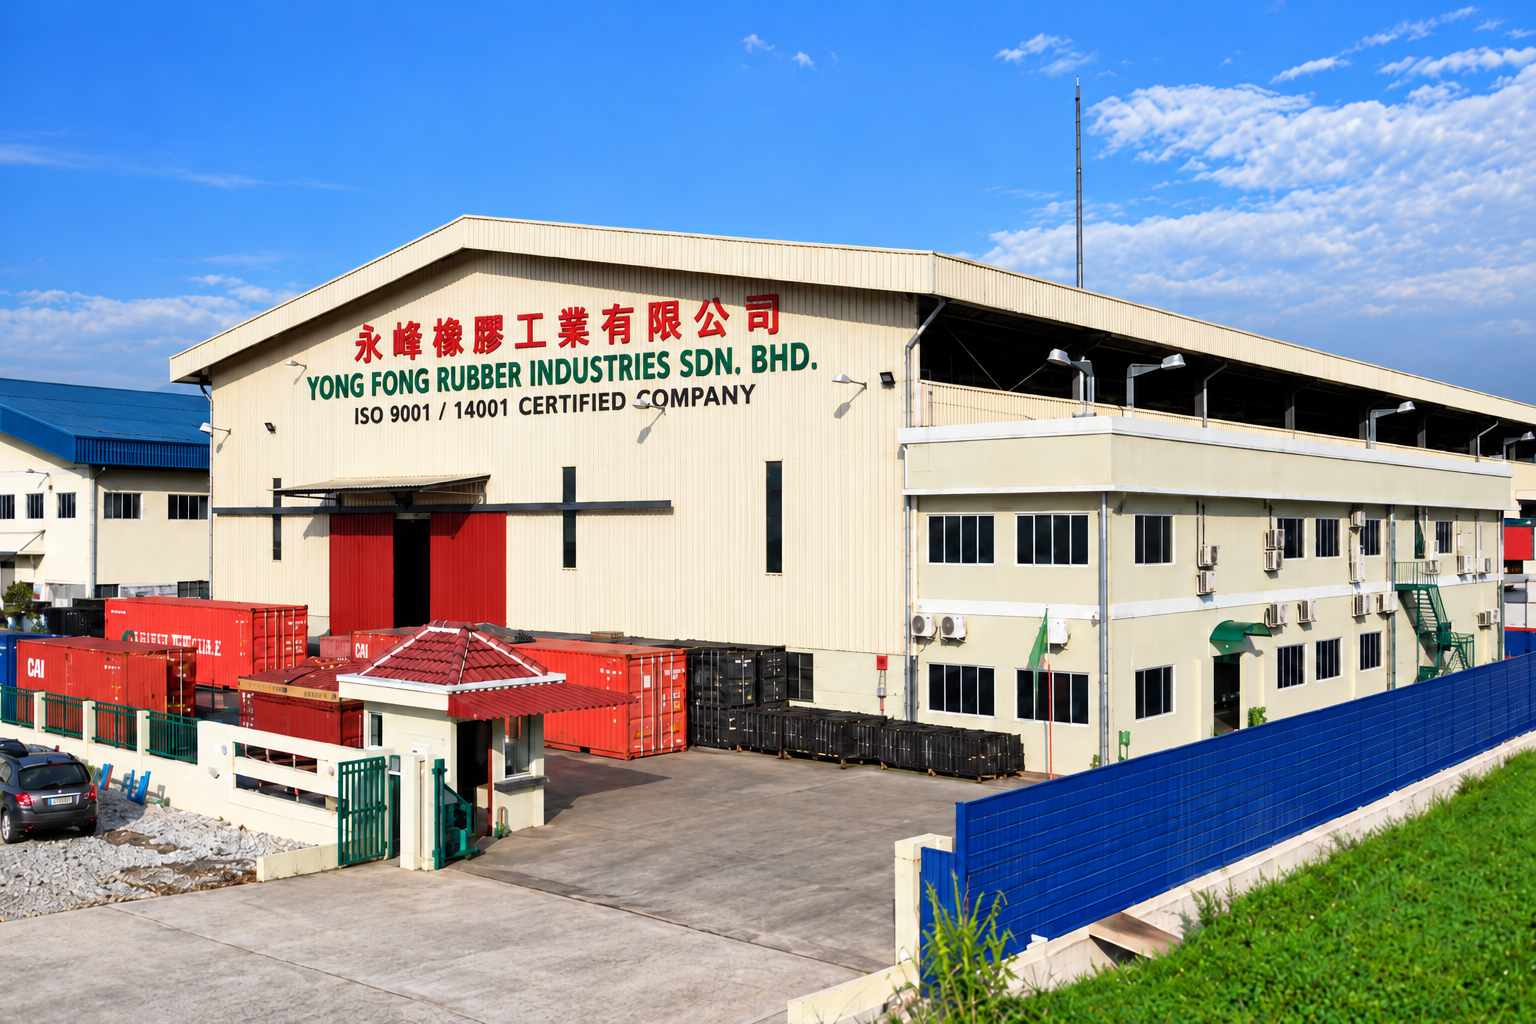
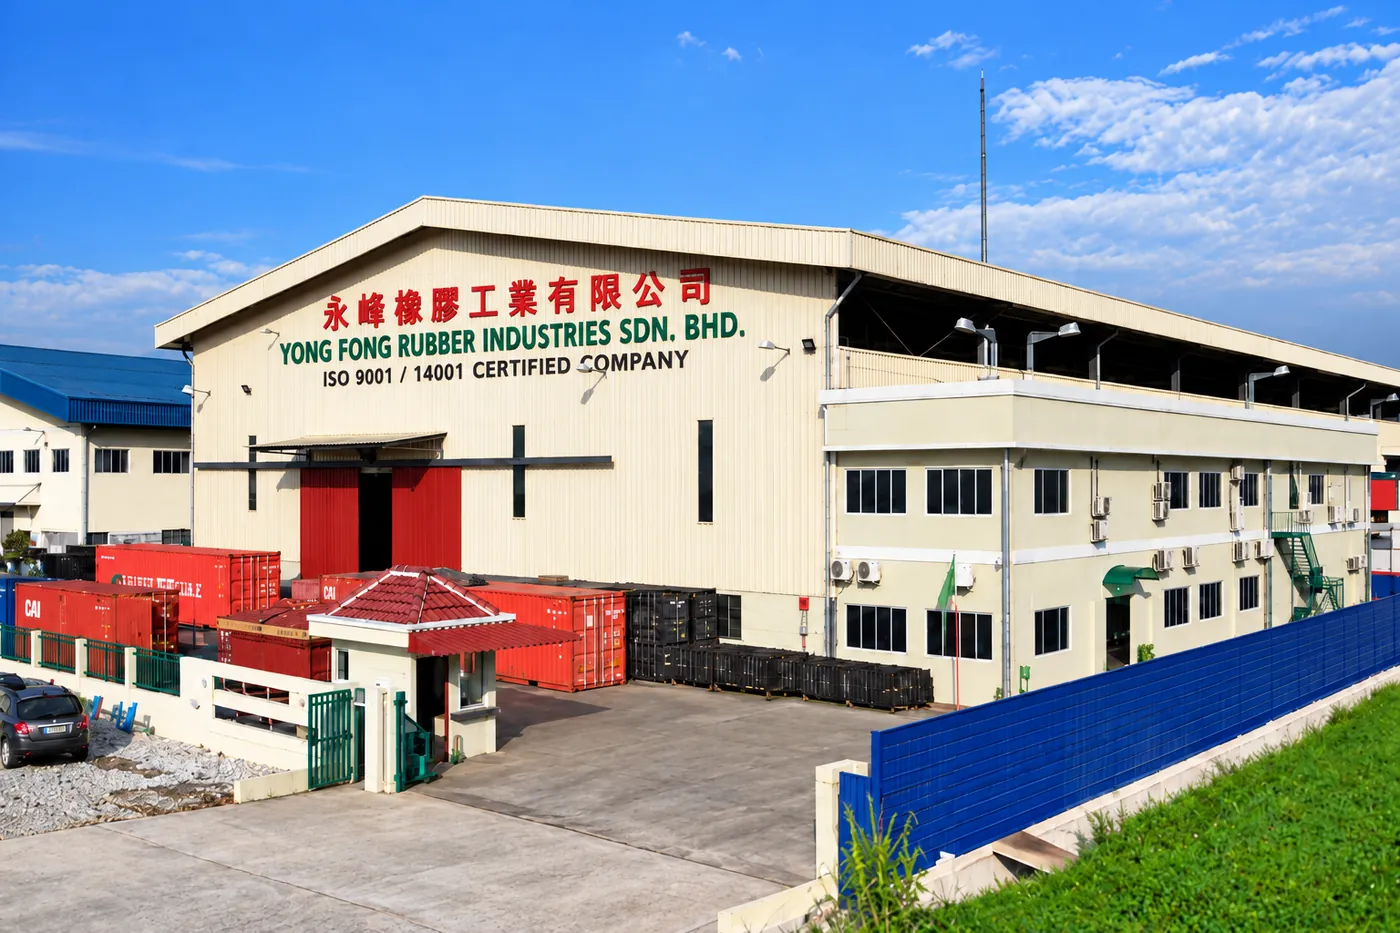
Restore fixes lost in the web upload; make deep links work
Adrian's upload of an older local copy reverted three earlier fixes:
- Knowledge Centre awards list restored (it had been emptied to get
  the build passing; both award logos were supplied)
- Three oversized photos recompressed again (5.6 MB -> 0.5 MB)
- Careers page back in the sitemap

Deploy workflow: copy index.html to 404.html after the build, so
direct links and refreshes on inner pages (e.g. /about) load the site
instead of GitHub's 'Page not found'.

Changed region(s): [[0.6143, 0.8703, 0.6757, 0.9325]]

diff --git a/src/pages/Knowledge.tsx b/src/pages/Knowledge.tsx
@@ -6,7 +6,7 @@ import { useInView } from '../lib/motion'
 import { faqCategories } from '../data/faqs'
 import { articles } from '../data/articles'
 import { news } from '../data/news'
-import { credentials } from '../data/credentials'
+import { awards } from '../data/credentials'
 import FaqAccordion from '../components/FaqAccordion'
 import { Breadcrumbs, CTABlock, PageHero, SectionHeading } from '../components/primitives'
 
@@ -238,9 +238,6 @@ function CompanyNews() {
 /* Awards & recognition                                                 */
 /* ------------------------------------------------------------------ */
 function Awards() {
-  // No award logos have been supplied yet (see lead text below) — this list
-// stays empty until confirmed award assets are added to src/data/credentials.ts.
-const awards: typeof credentials = []
   const ref = useInView<HTMLDivElement>()
   return (
     <section className="rule-t bg-paper py-20 md:py-24">

diff --git a/src/data/credentials.ts b/src/data/credentials.ts
@@ -151,6 +151,33 @@ export const credentials: Credential[] = [
   },
 ]
 
+/**
+ * Awards — kept out of the registration logo walls and shown in the
+ * Knowledge Centre's "Awards, recognition & acknowledgement" section.
+ * Year per the About-page timeline (2017).
+ */
+export interface Award {
+  id: string
+  name: string
+  org: string
+  image: string
+}
+
+export const awards: Award[] = [
+  {
+    id: 'power-brand',
+    name: 'Malaysia Power Brand',
+    org: 'Asia Entrepreneur Alliance',
+    image: '/images/credentials/power-brand-2016.png',
+  },
+  {
+    id: 'scbea',
+    name: 'Sin Chew Business Excellence Award',
+    org: 'Sin Chew Daily',
+    image: '/images/credentials/scbea-2017.png',
+  },
+]
+
 export const credentialCategories: CredentialCategory[] = [
   'Regulatory & Government Registrations',
   'Professional membership',
